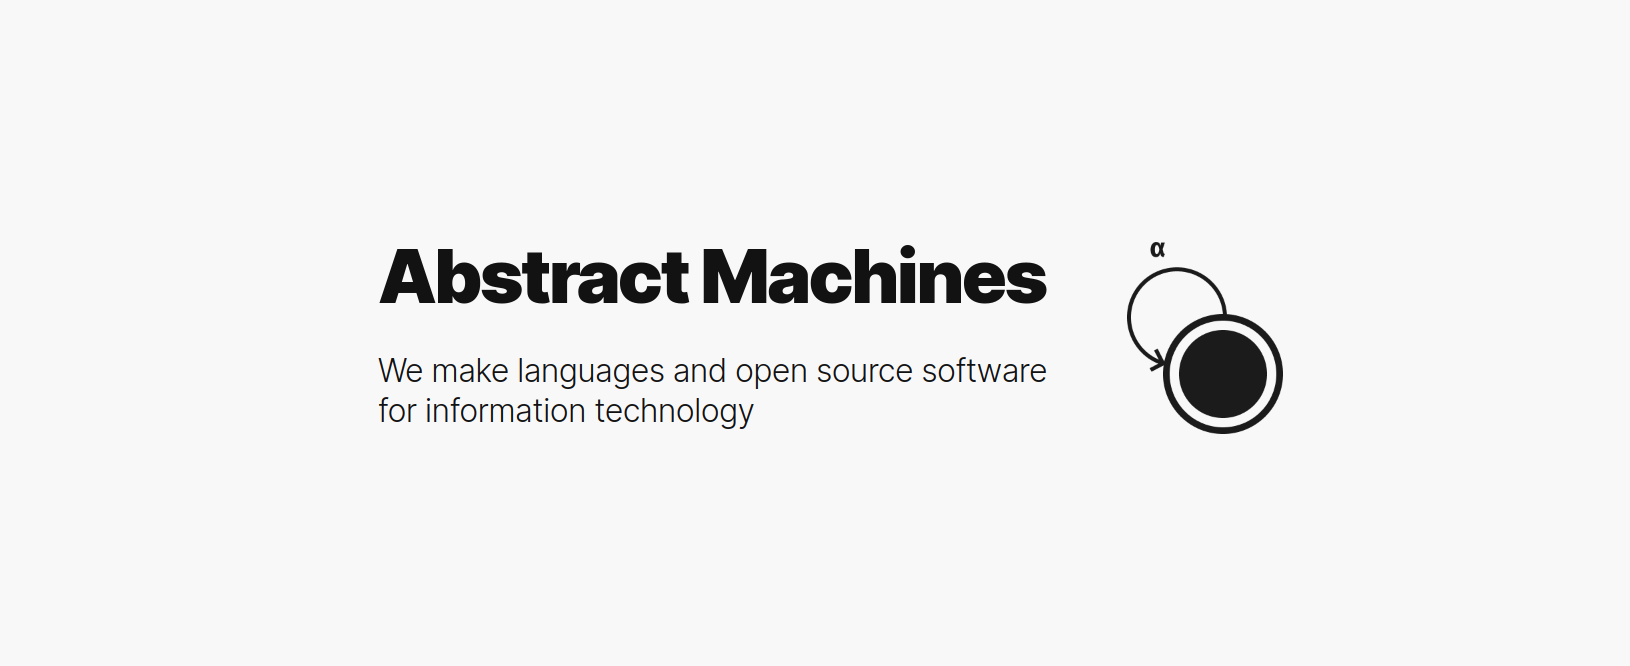
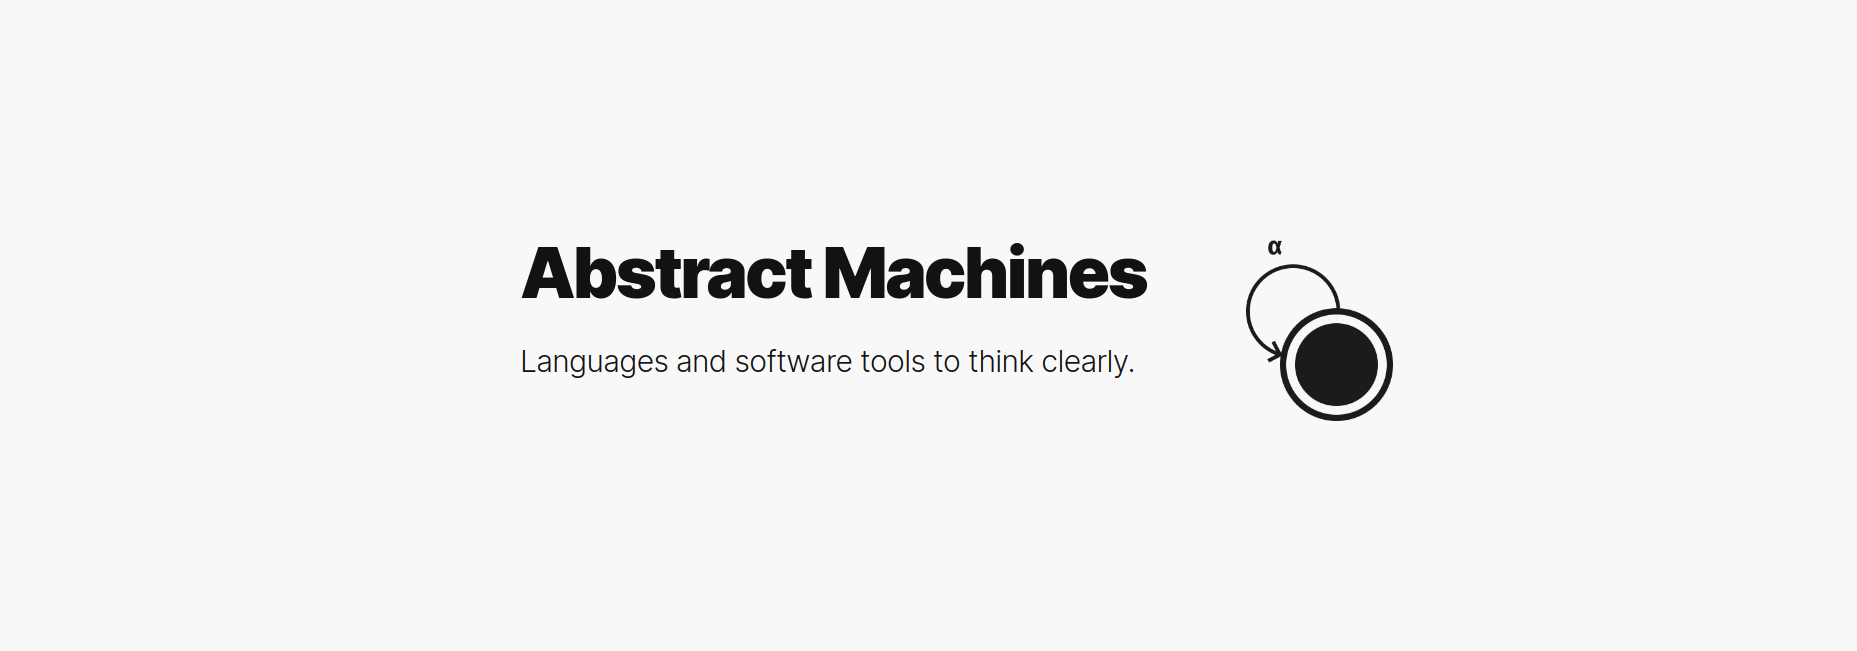
site: update tagline

Changed region(s): [[0.2147, 0.5223, 0.6442, 0.6452], [0.2147, 0.3687, 0.6442, 0.4608], [0.6748, 0.3687, 0.7975, 0.6759]]

diff --git a/posts/am010-hot-stuff.html b/posts/am010-hot-stuff.html
@@ -5,20 +5,20 @@
     <meta name="viewport" content="width=device-width,initial-scale=1.0">
 
     <meta name="title" content="Abstract Machines | Hot Stuff">
-    <meta name="description" content="Abstract Machines makes tools to think clear.">
+    <meta name="description" content="Abstract Machines makes tools to think clearly.">
 
     <!-- Open Graph / Facebook -->
     <meta property="og:type" content="website">
     <meta property="og:url" content="https://abstractmachines.dev/posts/am009-building-a-dota-ontology-pt4.html">
     <meta property="og:title" content="Abstract Machines | Hot Stuff ">
-    <meta property="og:description" content="Abstract Machines makes tools to think clear.">
+    <meta property="og:description" content="Abstract Machines makes tools to think clearly.">
     <meta property="og:image" content="https://abstractmachines.dev/assets/socialmedia.png">
 
     <!-- Twitter -->
     <meta property="twitter:card" content="summary_large_image">
     <meta property="twitter:url" content="https://abstractmachines.dev/posts/am009-building-a-dota-ontology-pt4.html">
     <meta property="twitter:title" content="Abstract Machines | Hot Stuff ">
-    <meta property="twitter:description" content="Abstract Machines makes tools to think clear.">
+    <meta property="twitter:description" content="Abstract Machines makes tools to think clearly.">
     <meta property="twitter:image" content="https://abstractmachines.dev/assets/socialmedia.png">
 
     <title>Abstract Machines | Hot Stuff </title>
@@ -435,7 +435,7 @@ that I think clearest when I understand why something is complex and can make
 voluntary decisions to tolerate certain complexity or to stand against it.</p>
 <p>And that's what software seems to need the most nowadays. Less flash and more
 understanding. Less bait and more questions.</p>
-<p><em>Tools to think clear</em>.</p>
+<p><em>Tools to think clearly</em>.</p>
 <p>That seems to be the real hot stuff.</p>
 <h3>References</h3>
 <ul>

diff --git a/posts/am009-building-a-dota-ontology-pt4.html b/posts/am009-building-a-dota-ontology-pt4.html
@@ -5,20 +5,20 @@
     <meta name="viewport" content="width=device-width,initial-scale=1.0">
 
     <meta name="title" content="Abstract Machines | Building a Dota Ontology (Part 4): Affinities and Attribute Effects">
-    <meta name="description" content="Abstract Machines makes tools to think clear.">
+    <meta name="description" content="Abstract Machines makes tools to think clearly.">
 
     <!-- Open Graph / Facebook -->
     <meta property="og:type" content="website">
     <meta property="og:url" content="https://abstractmachines.dev/posts/am009-building-a-dota-ontology-pt4.html">
     <meta property="og:title" content="Abstract Machines | Building a Dota Ontology (Part 4): Affinities and Attribute Effects ">
-    <meta property="og:description" content="Abstract Machines makes tools to think clear.">
+    <meta property="og:description" content="Abstract Machines makes tools to think clearly.">
     <meta property="og:image" content="https://abstractmachines.dev/assets/socialmedia.png">
 
     <!-- Twitter -->
     <meta property="twitter:card" content="summary_large_image">
     <meta property="twitter:url" content="https://abstractmachines.dev/posts/am009-building-a-dota-ontology-pt4.html">
     <meta property="twitter:title" content="Abstract Machines | Building a Dota Ontology (Part 4): Affinities and Attribute Effects ">
-    <meta property="twitter:description" content="Abstract Machines makes tools to think clear.">
+    <meta property="twitter:description" content="Abstract Machines makes tools to think clearly.">
     <meta property="twitter:image" content="https://abstractmachines.dev/assets/socialmedia.png">
 
     <title>Abstract Machines | Building a Dota Ontology (Part 4): Affinities and Attribute Effects </title>

diff --git a/posts/am004-making-ontologies-practical-through-metaprogramming.html b/posts/am004-making-ontologies-practical-through-metaprogramming.html
@@ -5,20 +5,20 @@
     <meta name="viewport" content="width=device-width,initial-scale=1.0">
 
     <meta name="title" content="Abstract Machines | Making Ontologies Practical through Metaprogramming">
-    <meta name="description" content="Abstract Machines makes tools to think clear.">
+    <meta name="description" content="Abstract Machines makes tools to think clearly.">
 
     <!-- Open Graph / Facebook -->
     <meta property="og:type" content="website">
     <meta property="og:url" content="https://abstractmachines.dev/posts/am009-building-a-dota-ontology-pt4.html">
     <meta property="og:title" content="Abstract Machines | Making Ontologies Practical through Metaprogramming ">
-    <meta property="og:description" content="Abstract Machines makes tools to think clear.">
+    <meta property="og:description" content="Abstract Machines makes tools to think clearly.">
     <meta property="og:image" content="https://abstractmachines.dev/assets/socialmedia.png">
 
     <!-- Twitter -->
     <meta property="twitter:card" content="summary_large_image">
     <meta property="twitter:url" content="https://abstractmachines.dev/posts/am009-building-a-dota-ontology-pt4.html">
     <meta property="twitter:title" content="Abstract Machines | Making Ontologies Practical through Metaprogramming ">
-    <meta property="twitter:description" content="Abstract Machines makes tools to think clear.">
+    <meta property="twitter:description" content="Abstract Machines makes tools to think clearly.">
     <meta property="twitter:image" content="https://abstractmachines.dev/assets/socialmedia.png">
 
     <title>Abstract Machines | Making Ontologies Practical through Metaprogramming </title>

diff --git a/posts/am006-building-a-dota-ontology-pt1.html b/posts/am006-building-a-dota-ontology-pt1.html
@@ -5,20 +5,20 @@
     <meta name="viewport" content="width=device-width,initial-scale=1.0">
 
     <meta name="title" content="Abstract Machines | Building a Dota Ontology, Part 1: Introduction">
-    <meta name="description" content="Abstract Machines makes tools to think clear.">
+    <meta name="description" content="Abstract Machines makes tools to think clearly.">
 
     <!-- Open Graph / Facebook -->
     <meta property="og:type" content="website">
     <meta property="og:url" content="https://abstractmachines.dev/posts/am009-building-a-dota-ontology-pt4.html">
     <meta property="og:title" content="Abstract Machines | Building a Dota Ontology, Part 1: Introduction ">
-    <meta property="og:description" content="Abstract Machines makes tools to think clear.">
+    <meta property="og:description" content="Abstract Machines makes tools to think clearly.">
     <meta property="og:image" content="https://abstractmachines.dev/assets/socialmedia.png">
 
     <!-- Twitter -->
     <meta property="twitter:card" content="summary_large_image">
     <meta property="twitter:url" content="https://abstractmachines.dev/posts/am009-building-a-dota-ontology-pt4.html">
     <meta property="twitter:title" content="Abstract Machines | Building a Dota Ontology, Part 1: Introduction ">
-    <meta property="twitter:description" content="Abstract Machines makes tools to think clear.">
+    <meta property="twitter:description" content="Abstract Machines makes tools to think clearly.">
     <meta property="twitter:image" content="https://abstractmachines.dev/assets/socialmedia.png">
 
     <title>Abstract Machines | Building a Dota Ontology, Part 1: Introduction </title>

diff --git a/posts/am005-the-hard-part-of-ontologies-is-the-domain.html b/posts/am005-the-hard-part-of-ontologies-is-the-domain.html
@@ -5,20 +5,20 @@
     <meta name="viewport" content="width=device-width,initial-scale=1.0">
 
     <meta name="title" content="Abstract Machines | The Hard Stuff about Ontologies...">
-    <meta name="description" content="Abstract Machines makes tools to think clear.">
+    <meta name="description" content="Abstract Machines makes tools to think clearly.">
 
     <!-- Open Graph / Facebook -->
     <meta property="og:type" content="website">
     <meta property="og:url" content="https://abstractmachines.dev/posts/am009-building-a-dota-ontology-pt4.html">
     <meta property="og:title" content="Abstract Machines | The Hard Stuff about Ontologies... ">
-    <meta property="og:description" content="Abstract Machines makes tools to think clear.">
+    <meta property="og:description" content="Abstract Machines makes tools to think clearly.">
     <meta property="og:image" content="https://abstractmachines.dev/assets/socialmedia.png">
 
     <!-- Twitter -->
     <meta property="twitter:card" content="summary_large_image">
     <meta property="twitter:url" content="https://abstractmachines.dev/posts/am009-building-a-dota-ontology-pt4.html">
     <meta property="twitter:title" content="Abstract Machines | The Hard Stuff about Ontologies... ">
-    <meta property="twitter:description" content="Abstract Machines makes tools to think clear.">
+    <meta property="twitter:description" content="Abstract Machines makes tools to think clearly.">
     <meta property="twitter:image" content="https://abstractmachines.dev/assets/socialmedia.png">
 
     <title>Abstract Machines | The Hard Stuff about Ontologies... </title>

diff --git a/posts/am007-building-a-dota-ontology-pt2.html b/posts/am007-building-a-dota-ontology-pt2.html
@@ -5,20 +5,20 @@
     <meta name="viewport" content="width=device-width,initial-scale=1.0">
 
     <meta name="title" content="Abstract Machines | Building a Dota Ontology (Part 2):">
-    <meta name="description" content="Abstract Machines makes tools to think clear.">
+    <meta name="description" content="Abstract Machines makes tools to think clearly.">
 
     <!-- Open Graph / Facebook -->
     <meta property="og:type" content="website">
     <meta property="og:url" content="https://abstractmachines.dev/posts/am009-building-a-dota-ontology-pt4.html">
     <meta property="og:title" content="Abstract Machines | Building a Dota Ontology (Part 2): ">
-    <meta property="og:description" content="Abstract Machines makes tools to think clear.">
+    <meta property="og:description" content="Abstract Machines makes tools to think clearly.">
     <meta property="og:image" content="https://abstractmachines.dev/assets/socialmedia.png">
 
     <!-- Twitter -->
     <meta property="twitter:card" content="summary_large_image">
     <meta property="twitter:url" content="https://abstractmachines.dev/posts/am009-building-a-dota-ontology-pt4.html">
     <meta property="twitter:title" content="Abstract Machines | Building a Dota Ontology (Part 2): ">
-    <meta property="twitter:description" content="Abstract Machines makes tools to think clear.">
+    <meta property="twitter:description" content="Abstract Machines makes tools to think clearly.">
     <meta property="twitter:image" content="https://abstractmachines.dev/assets/socialmedia.png">
 
     <title>Abstract Machines | Building a Dota Ontology (Part 2): </title>

diff --git a/posts/am008-building-a-dota-ontology-pt3.html b/posts/am008-building-a-dota-ontology-pt3.html
@@ -5,20 +5,20 @@
     <meta name="viewport" content="width=device-width,initial-scale=1.0">
 
     <meta name="title" content="Abstract Machines | Building a Dota Ontology (Part 3):">
-    <meta name="description" content="Abstract Machines makes tools to think clear.">
+    <meta name="description" content="Abstract Machines makes tools to think clearly.">
 
     <!-- Open Graph / Facebook -->
     <meta property="og:type" content="website">
     <meta property="og:url" content="https://abstractmachines.dev/posts/am009-building-a-dota-ontology-pt4.html">
     <meta property="og:title" content="Abstract Machines | Building a Dota Ontology (Part 3): ">
-    <meta property="og:description" content="Abstract Machines makes tools to think clear.">
+    <meta property="og:description" content="Abstract Machines makes tools to think clearly.">
     <meta property="og:image" content="https://abstractmachines.dev/assets/socialmedia.png">
 
     <!-- Twitter -->
     <meta property="twitter:card" content="summary_large_image">
     <meta property="twitter:url" content="https://abstractmachines.dev/posts/am009-building-a-dota-ontology-pt4.html">
     <meta property="twitter:title" content="Abstract Machines | Building a Dota Ontology (Part 3): ">
-    <meta property="twitter:description" content="Abstract Machines makes tools to think clear.">
+    <meta property="twitter:description" content="Abstract Machines makes tools to think clearly.">
     <meta property="twitter:image" content="https://abstractmachines.dev/assets/socialmedia.png">
 
     <title>Abstract Machines | Building a Dota Ontology (Part 3): </title>

diff --git a/posts/am002-engineering-knowledge-identity.html b/posts/am002-engineering-knowledge-identity.html
@@ -5,20 +5,20 @@
     <meta name="viewport" content="width=device-width,initial-scale=1.0">
 
     <meta name="title" content="Abstract Machines | Engineering Knowledge: Identity">
-    <meta name="description" content="Abstract Machines makes tools to think clear.">
+    <meta name="description" content="Abstract Machines makes tools to think clearly.">
 
     <!-- Open Graph / Facebook -->
     <meta property="og:type" content="website">
     <meta property="og:url" content="https://abstractmachines.dev/posts/am009-building-a-dota-ontology-pt4.html">
     <meta property="og:title" content="Abstract Machines | Engineering Knowledge: Identity ">
-    <meta property="og:description" content="Abstract Machines makes tools to think clear.">
+    <meta property="og:description" content="Abstract Machines makes tools to think clearly.">
     <meta property="og:image" content="https://abstractmachines.dev/assets/socialmedia.png">
 
     <!-- Twitter -->
     <meta property="twitter:card" content="summary_large_image">
     <meta property="twitter:url" content="https://abstractmachines.dev/posts/am009-building-a-dota-ontology-pt4.html">
     <meta property="twitter:title" content="Abstract Machines | Engineering Knowledge: Identity ">
-    <meta property="twitter:description" content="Abstract Machines makes tools to think clear.">
+    <meta property="twitter:description" content="Abstract Machines makes tools to think clearly.">
     <meta property="twitter:image" content="https://abstractmachines.dev/assets/socialmedia.png">
 
     <title>Abstract Machines | Engineering Knowledge: Identity </title>

diff --git a/posts/am003-a-world-of-facts.html b/posts/am003-a-world-of-facts.html
@@ -5,20 +5,20 @@
     <meta name="viewport" content="width=device-width,initial-scale=1.0">
 
     <meta name="title" content="Abstract Machines | A Worldview of Facts">
-    <meta name="description" content="Abstract Machines makes tools to think clear.">
+    <meta name="description" content="Abstract Machines makes tools to think clearly.">
 
     <!-- Open Graph / Facebook -->
     <meta property="og:type" content="website">
     <meta property="og:url" content="https://abstractmachines.dev/posts/am009-building-a-dota-ontology-pt4.html">
     <meta property="og:title" content="Abstract Machines | A Worldview of Facts ">
-    <meta property="og:description" content="Abstract Machines makes tools to think clear.">
+    <meta property="og:description" content="Abstract Machines makes tools to think clearly.">
     <meta property="og:image" content="https://abstractmachines.dev/assets/socialmedia.png">
 
     <!-- Twitter -->
     <meta property="twitter:card" content="summary_large_image">
     <meta property="twitter:url" content="https://abstractmachines.dev/posts/am009-building-a-dota-ontology-pt4.html">
     <meta property="twitter:title" content="Abstract Machines | A Worldview of Facts ">
-    <meta property="twitter:description" content="Abstract Machines makes tools to think clear.">
+    <meta property="twitter:description" content="Abstract Machines makes tools to think clearly.">
     <meta property="twitter:image" content="https://abstractmachines.dev/assets/socialmedia.png">
 
     <title>Abstract Machines | A Worldview of Facts </title>

diff --git a/posts/am001-data-languages.html b/posts/am001-data-languages.html
@@ -5,20 +5,20 @@
     <meta name="viewport" content="width=device-width,initial-scale=1.0">
 
     <meta name="title" content="Abstract Machines | Data Languages">
-    <meta name="description" content="Abstract Machines makes tools to think clear.">
+    <meta name="description" content="Abstract Machines makes tools to think clearly.">
 
     <!-- Open Graph / Facebook -->
     <meta property="og:type" content="website">
     <meta property="og:url" content="https://abstractmachines.dev/posts/am009-building-a-dota-ontology-pt4.html">
     <meta property="og:title" content="Abstract Machines | Data Languages ">
-    <meta property="og:description" content="Abstract Machines makes tools to think clear.">
+    <meta property="og:description" content="Abstract Machines makes tools to think clearly.">
     <meta property="og:image" content="https://abstractmachines.dev/assets/socialmedia.png">
 
     <!-- Twitter -->
     <meta property="twitter:card" content="summary_large_image">
     <meta property="twitter:url" content="https://abstractmachines.dev/posts/am009-building-a-dota-ontology-pt4.html">
     <meta property="twitter:title" content="Abstract Machines | Data Languages ">
-    <meta property="twitter:description" content="Abstract Machines makes tools to think clear.">
+    <meta property="twitter:description" content="Abstract Machines makes tools to think clearly.">
     <meta property="twitter:image" content="https://abstractmachines.dev/assets/socialmedia.png">
 
     <title>Abstract Machines | Data Languages </title>

diff --git a/posts/am000-hello-world.html b/posts/am000-hello-world.html
@@ -5,20 +5,20 @@
     <meta name="viewport" content="width=device-width,initial-scale=1.0">
 
     <meta name="title" content="Abstract Machines | Hello World">
-    <meta name="description" content="Abstract Machines makes tools to think clear.">
+    <meta name="description" content="Abstract Machines makes tools to think clearly.">
 
     <!-- Open Graph / Facebook -->
     <meta property="og:type" content="website">
     <meta property="og:url" content="https://abstractmachines.dev/posts/am009-building-a-dota-ontology-pt4.html">
     <meta property="og:title" content="Abstract Machines | Hello World ">
-    <meta property="og:description" content="Abstract Machines makes tools to think clear.">
+    <meta property="og:description" content="Abstract Machines makes tools to think clearly.">
     <meta property="og:image" content="https://abstractmachines.dev/assets/socialmedia.png">
 
     <!-- Twitter -->
     <meta property="twitter:card" content="summary_large_image">
     <meta property="twitter:url" content="https://abstractmachines.dev/posts/am009-building-a-dota-ontology-pt4.html">
     <meta property="twitter:title" content="Abstract Machines | Hello World ">
-    <meta property="twitter:description" content="Abstract Machines makes tools to think clear.">
+    <meta property="twitter:description" content="Abstract Machines makes tools to think clearly.">
     <meta property="twitter:image" content="https://abstractmachines.dev/assets/socialmedia.png">
 
     <title>Abstract Machines | Hello World </title>

diff --git a/posts/template.html b/posts/template.html
@@ -5,20 +5,20 @@
     <meta name="viewport" content="width=device-width,initial-scale=1.0">
 
     <meta name="title" content="Abstract Machines | {| title |}">
-    <meta name="description" content="Abstract Machines makes tools to think clear.">
+    <meta name="description" content="Abstract Machines makes tools to think clearly.">
 
     <!-- Open Graph / Facebook -->
     <meta property="og:type" content="website">
     <meta property="og:url" content="https://abstractmachines.dev/posts/am009-building-a-dota-ontology-pt4.html">
     <meta property="og:title" content="Abstract Machines | {| title |} ">
-    <meta property="og:description" content="Abstract Machines makes tools to think clear.">
+    <meta property="og:description" content="Abstract Machines makes tools to think clearly.">
     <meta property="og:image" content="https://abstractmachines.dev/assets/socialmedia.png">
 
     <!-- Twitter -->
     <meta property="twitter:card" content="summary_large_image">
     <meta property="twitter:url" content="https://abstractmachines.dev/posts/am009-building-a-dota-ontology-pt4.html">
     <meta property="twitter:title" content="Abstract Machines | {| title |} ">
-    <meta property="twitter:description" content="Abstract Machines makes tools to think clear.">
+    <meta property="twitter:description" content="Abstract Machines makes tools to think clearly.">
     <meta property="twitter:image" content="https://abstractmachines.dev/assets/socialmedia.png">
 
     <title>Abstract Machines | {| title |} </title>
